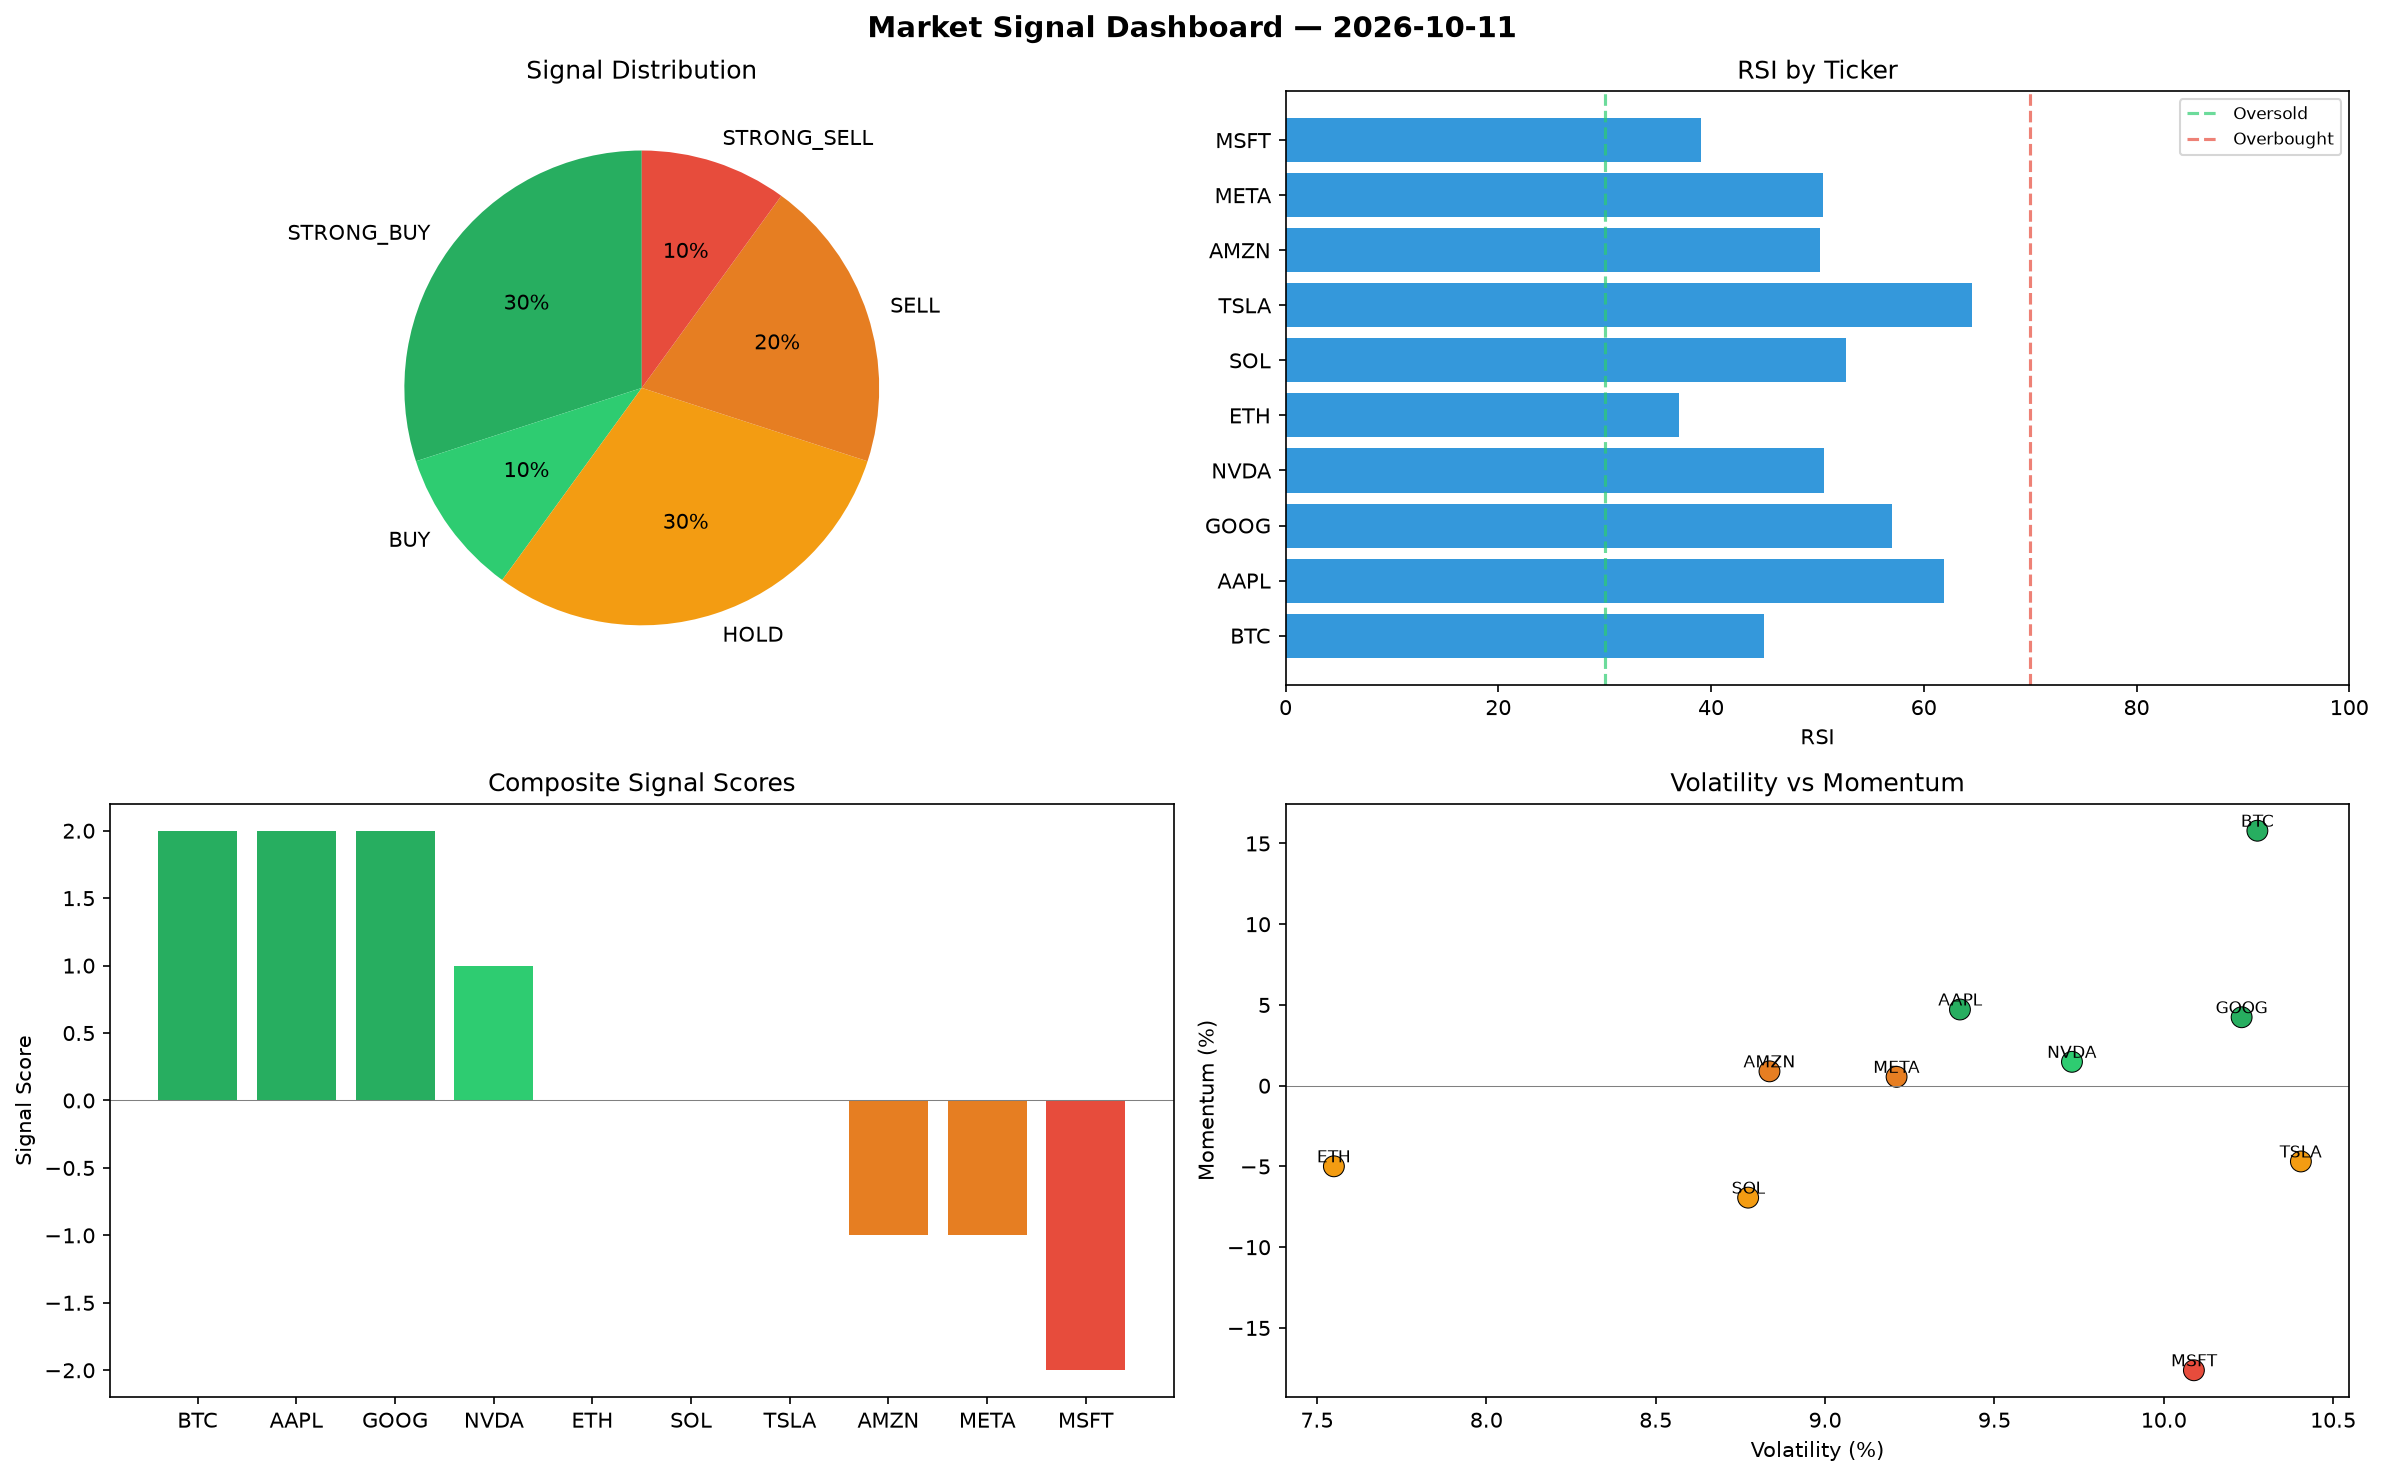
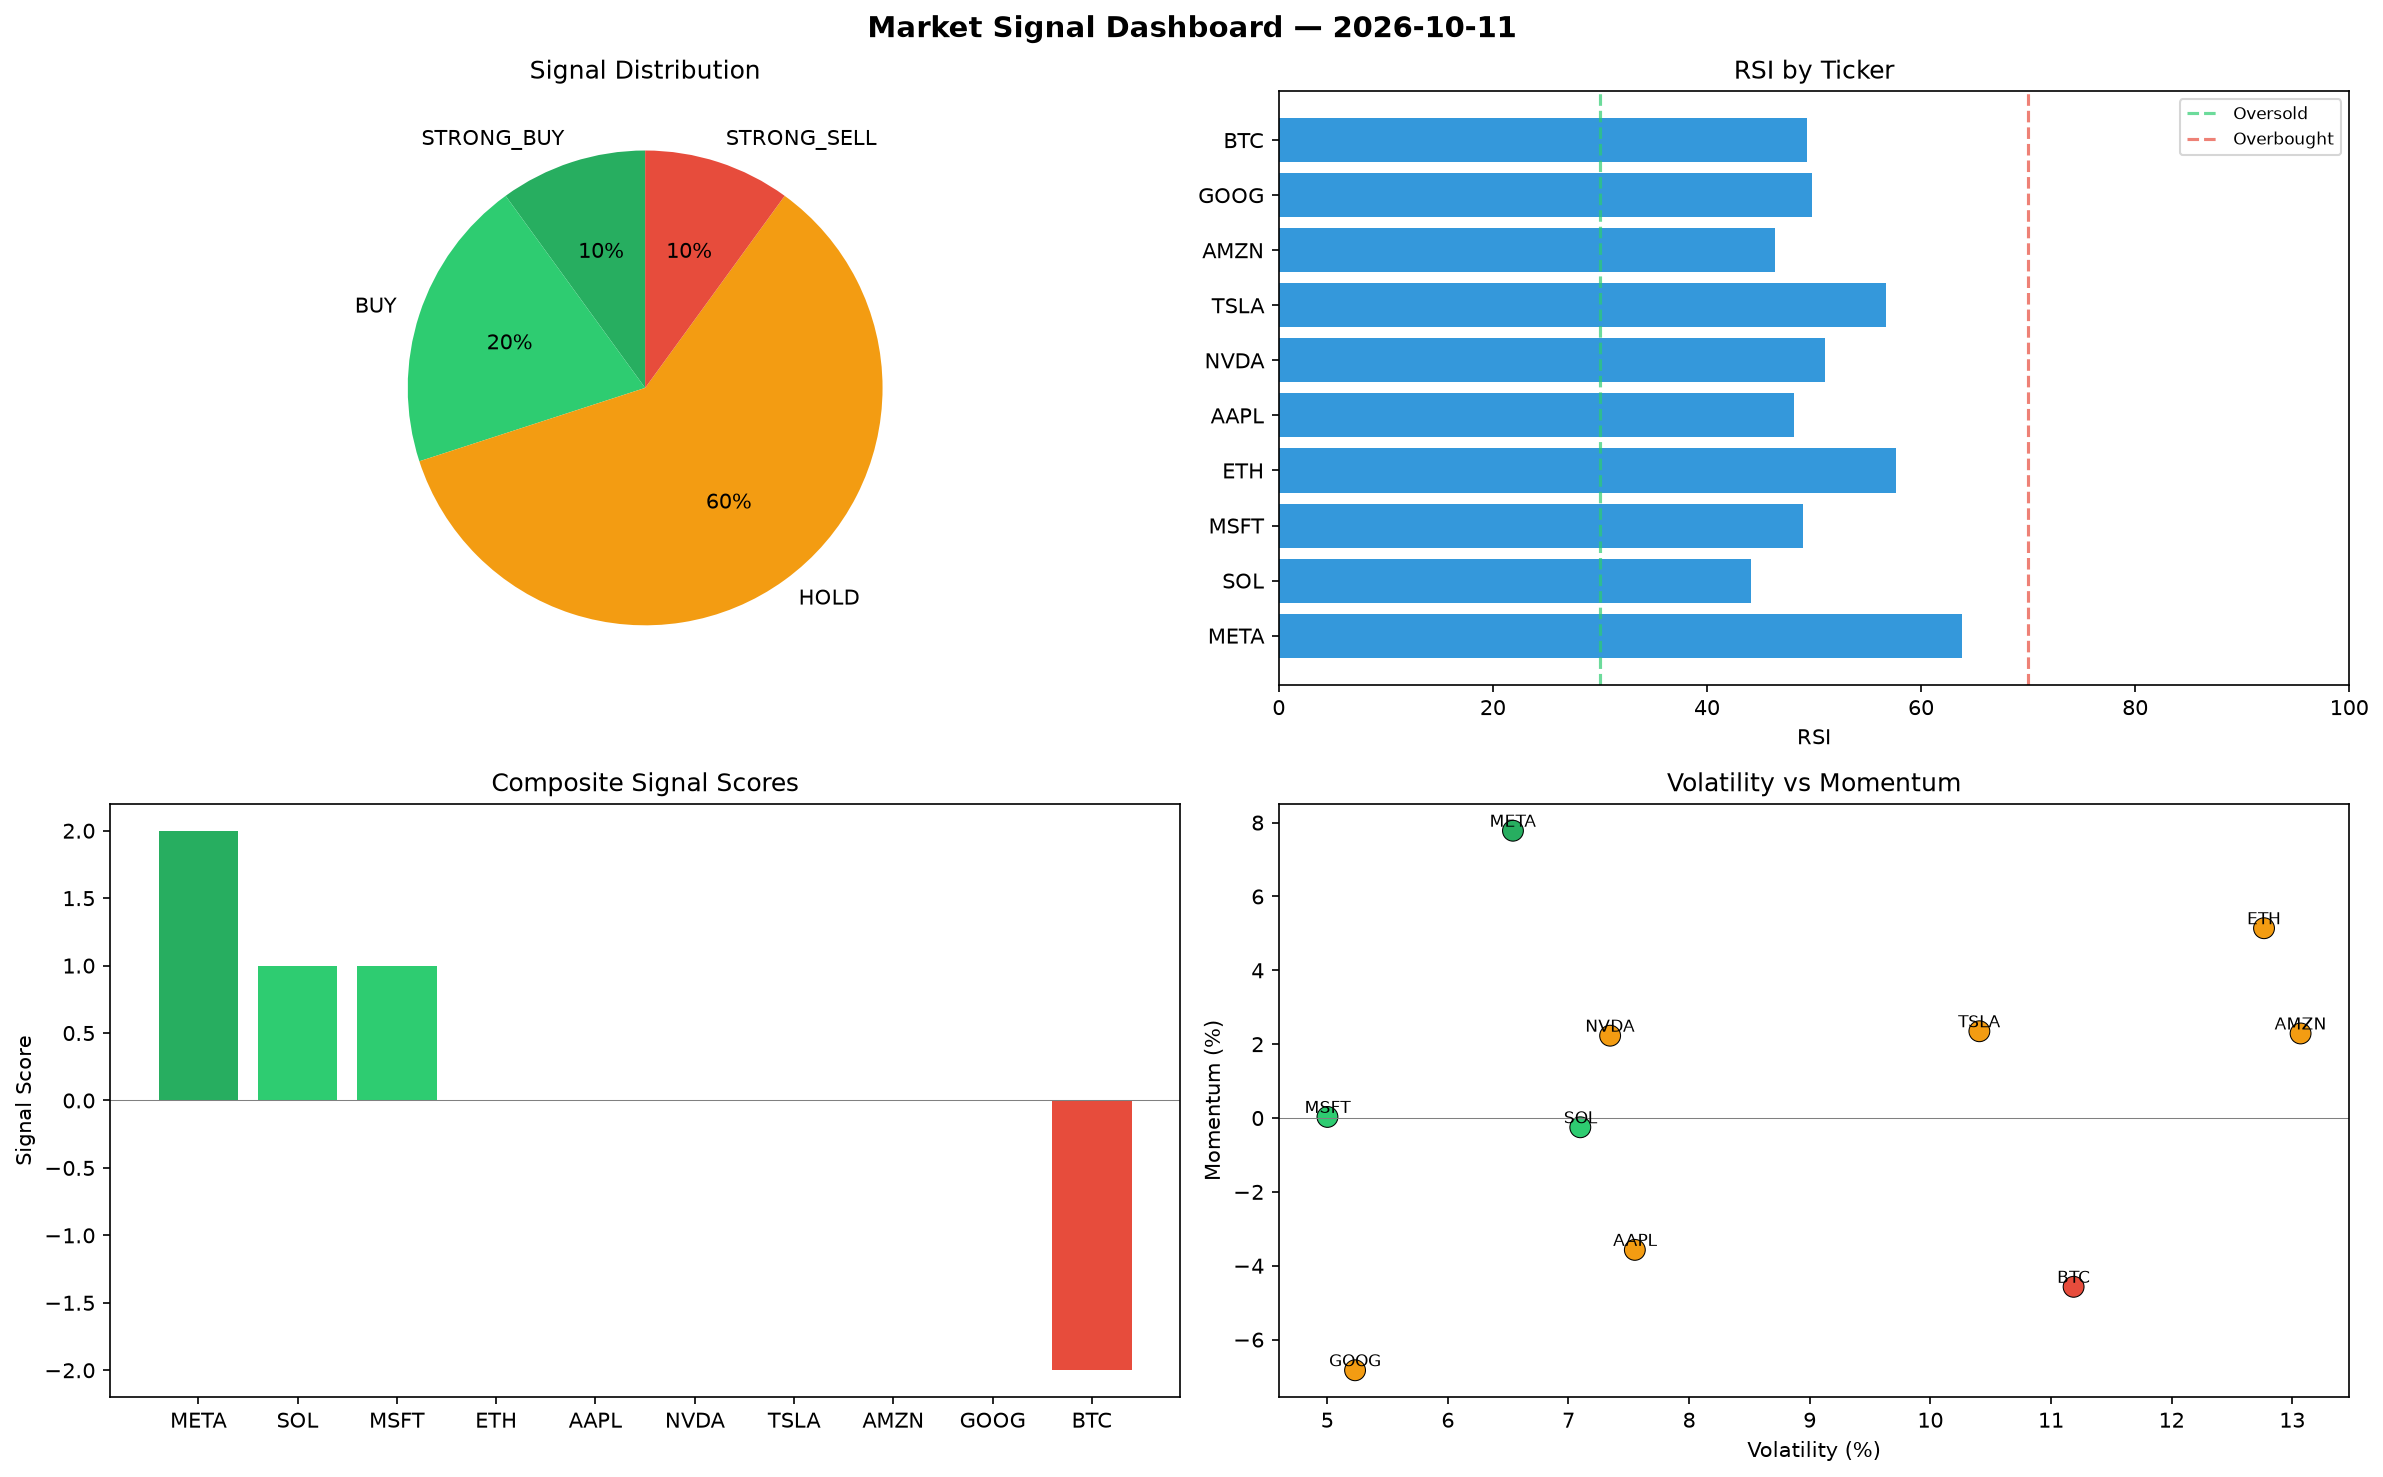
automated-bots: market signals 2026-10-11T14:59

diff --git a/logs/2026-10-11.md b/logs/2026-10-11.md
@@ -1,6 +1,6 @@
 # Market Signal Report — 2026-10-11
 
-**Run ID:** `073d30c3da` | **Buy:** 4 | **Sell:** 3 | **Hold:** 3
+**Run ID:** `01bc5e1af4` | **Buy:** 3 | **Sell:** 1 | **Hold:** 6
 
 ![Dashboard](2026-10-11_dashboard.png)
 
@@ -8,28 +8,28 @@
 
 | Ticker | Price | Signal | Score | RSI | Momentum | Confidence |
 |--------|-------|--------|-------|-----|----------|------------|
-| BTC | $1764.86 | **STRONG_BUY** | 2 | 45.0 | 0.1579 | 0.5 |
-| AAPL | $1714.99 | **STRONG_BUY** | 2 | 61.92 | 0.0472 | 0.5 |
-| GOOG | $183.45 | **STRONG_BUY** | 2 | 56.98 | 0.0424 | 0.5 |
-| NVDA | $337.39 | **BUY** | 1 | 50.66 | 0.0148 | 0.25 |
-| ETH | $4323.16 | **HOLD** | 0 | 36.96 | -0.0499 | 0.0 |
-| SOL | $3497.03 | **HOLD** | 0 | 52.7 | -0.0693 | 0.0 |
-| TSLA | $2888.3 | **HOLD** | 0 | 64.57 | -0.0469 | 0.0 |
-| AMZN | $4270.92 | **SELL** | -1 | 50.2 | 0.0089 | 0.25 |
-| META | $477.12 | **SELL** | -1 | 50.54 | 0.0055 | 0.25 |
-| MSFT | $141.28 | **STRONG_SELL** | -2 | 39.08 | -0.1762 | 0.5 |
+| META | $1041.27 | **STRONG_BUY** | 2 | 63.79 | 0.0778 | 0.5 |
+| SOL | $2826.66 | **BUY** | 1 | 44.1 | -0.0025 | 0.25 |
+| MSFT | $2985.63 | **BUY** | 1 | 48.94 | 0.0003 | 0.25 |
+| ETH | $4248.08 | **HOLD** | 0 | 57.68 | 0.0514 | 0.0 |
+| AAPL | $1047.09 | **HOLD** | 0 | 48.11 | -0.0357 | 0.0 |
+| NVDA | $428.18 | **HOLD** | 0 | 51.02 | 0.0223 | 0.0 |
+| TSLA | $646.03 | **HOLD** | 0 | 56.7 | 0.0235 | 0.0 |
+| AMZN | $2511.54 | **HOLD** | 0 | 46.35 | 0.0229 | 0.0 |
+| GOOG | $4030.2 | **HOLD** | 0 | 49.81 | -0.0683 | 0.0 |
+| BTC | $3695.25 | **STRONG_SELL** | -2 | 49.38 | -0.0457 | 0.5 |
 
 ## Delta vs Yesterday
 
 | Ticker | Today | Yesterday | Price Change | Signal Changed |
 |--------|-------|-----------|-------------|----------------|
-| BTC | STRONG_BUY | STRONG_SELL | 📉 -56.37% | ⚠ YES |
-| AAPL | STRONG_BUY | SELL | 📈 99.55% | ⚠ YES |
-| GOOG | STRONG_BUY | SELL | 📉 -96.05% | ⚠ YES |
-| NVDA | BUY | HOLD | 📉 -86.13% | ⚠ YES |
-| ETH | HOLD | HOLD | 📈 77.5% | — |
-| SOL | HOLD | HOLD | 📈 19.1% | — |
-| TSLA | HOLD | STRONG_BUY | 📈 10.38% | ⚠ YES |
-| AMZN | SELL | SELL | 📈 38.78% | — |
-| META | SELL | STRONG_SELL | 📉 -81.47% | ⚠ YES |
-| MSFT | STRONG_SELL | BUY | 📉 -96.82% | ⚠ YES |
+| META | STRONG_BUY | STRONG_SELL | 📉 -59.56% | ⚠ YES |
+| SOL | BUY | HOLD | 📉 -3.73% | ⚠ YES |
+| MSFT | BUY | BUY | 📉 -32.87% | — |
+| ETH | HOLD | HOLD | 📈 74.42% | — |
+| AAPL | HOLD | SELL | 📈 21.84% | ⚠ YES |
+| NVDA | HOLD | HOLD | 📉 -82.39% | — |
+| TSLA | HOLD | STRONG_BUY | 📉 -75.31% | ⚠ YES |
+| AMZN | HOLD | SELL | 📉 -18.39% | ⚠ YES |
+| GOOG | HOLD | SELL | 📉 -13.16% | ⚠ YES |
+| BTC | STRONG_SELL | STRONG_SELL | 📉 -8.66% | — |
